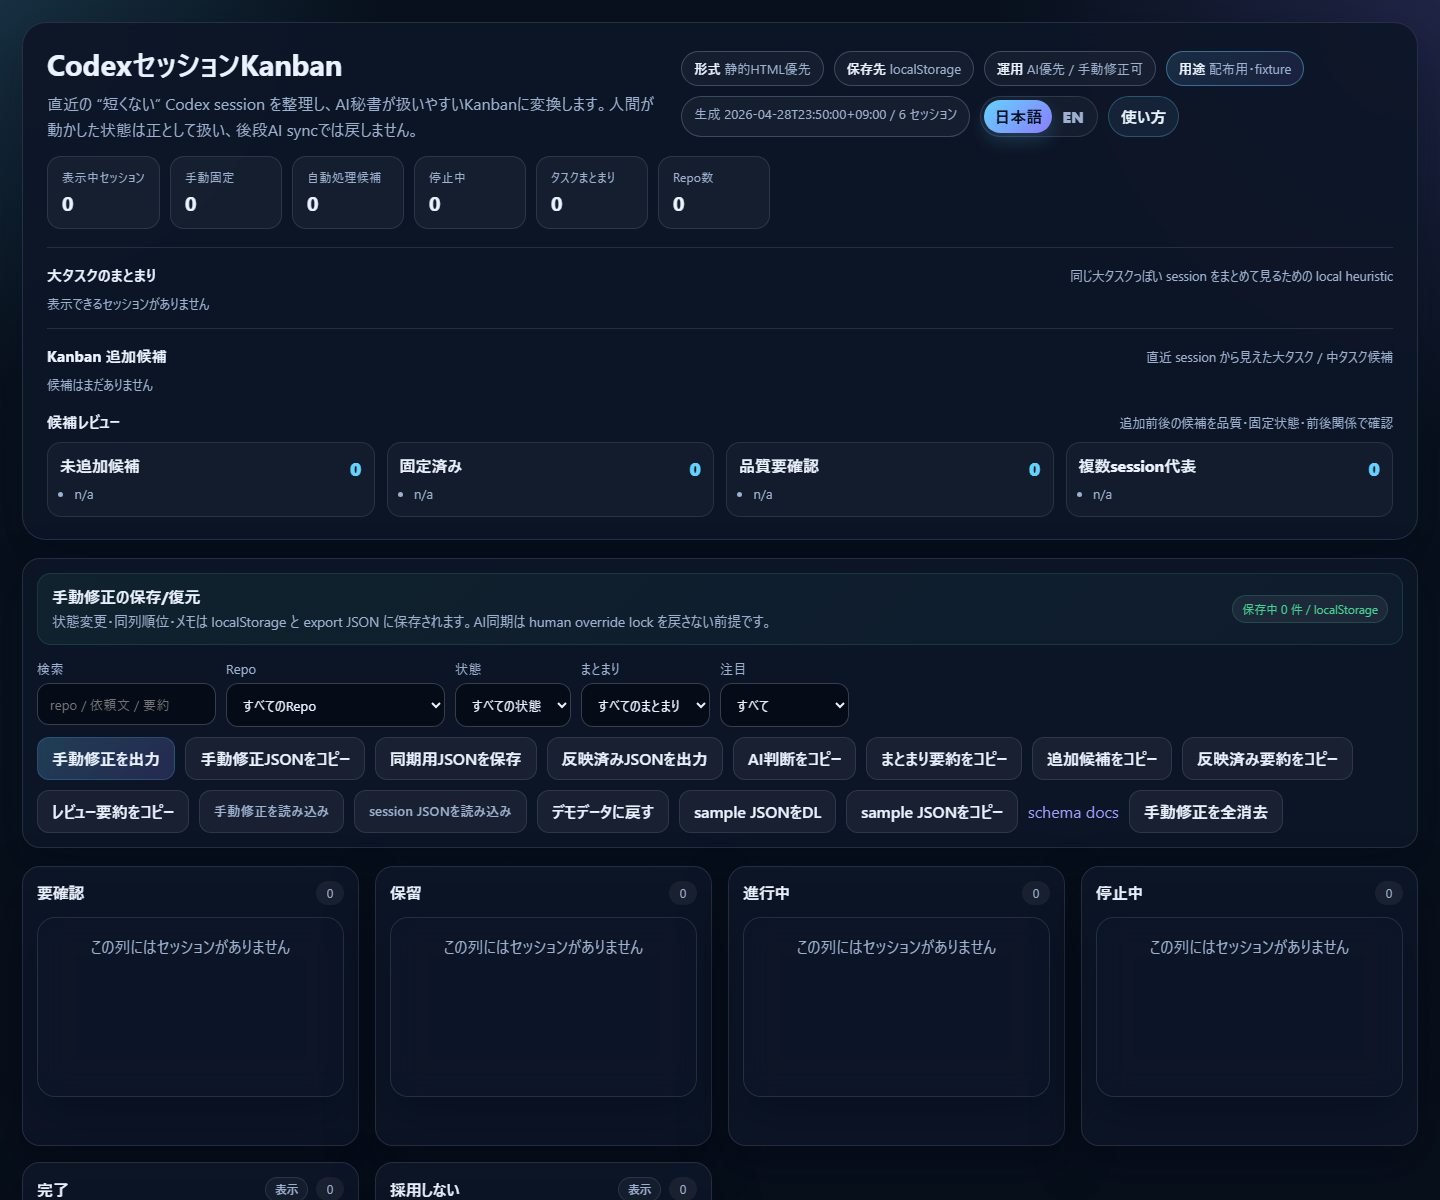
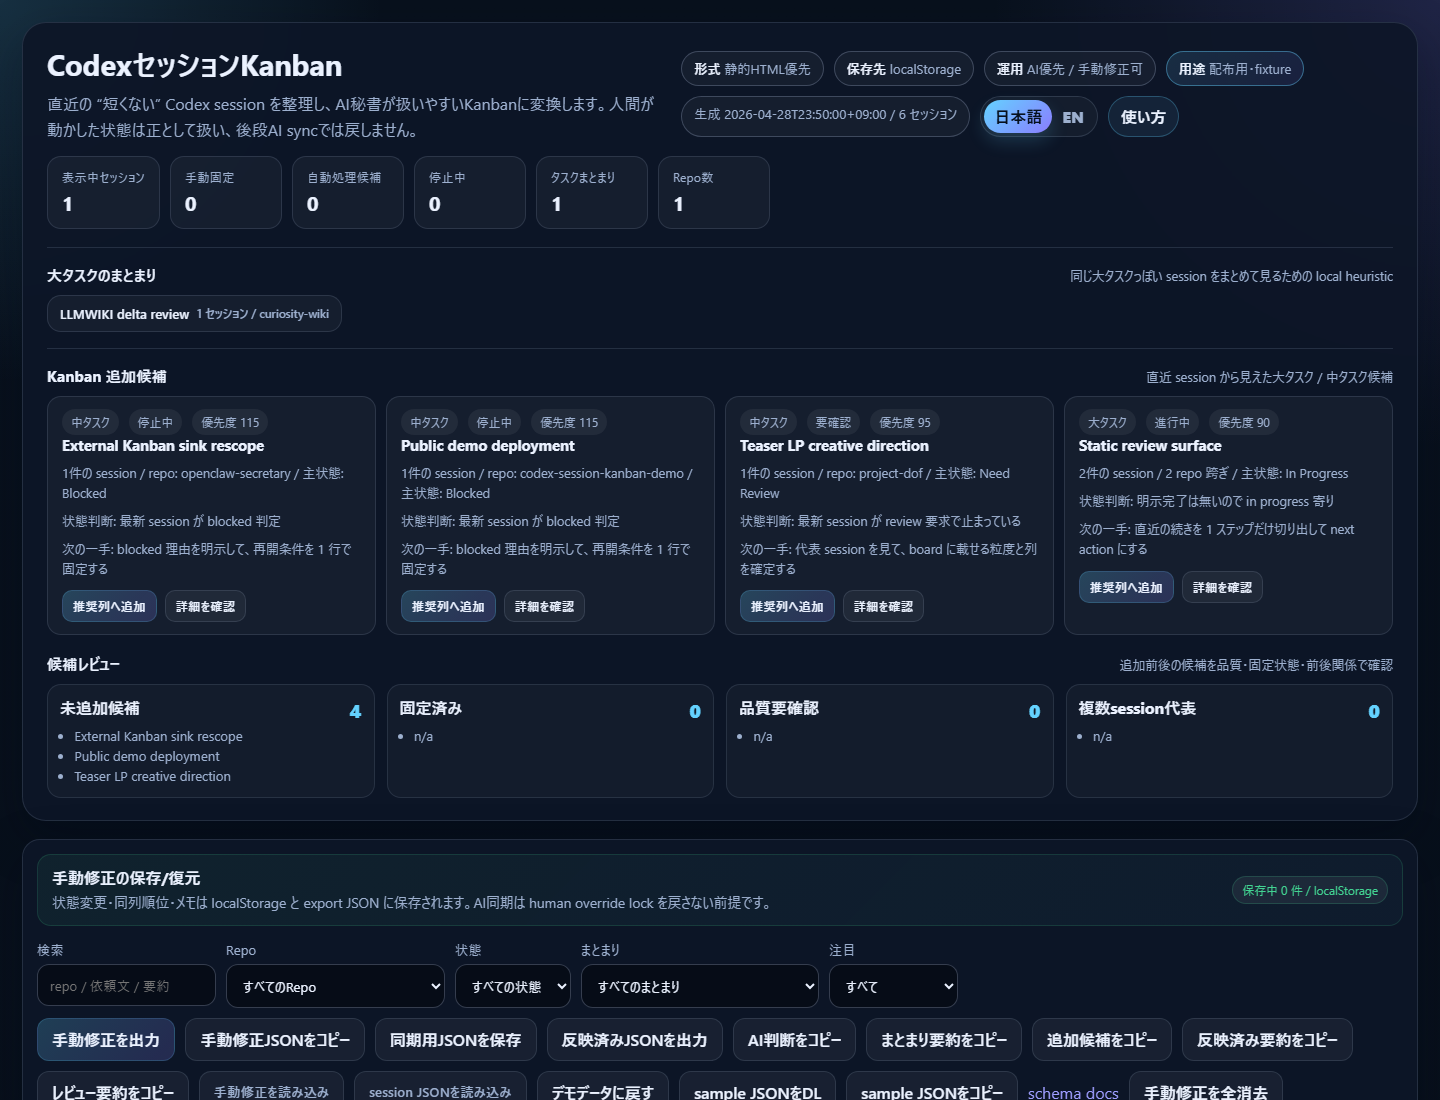
Refresh public screenshots

diff --git a/PRODUCT_TODO.md b/PRODUCT_TODO.md
@@ -358,6 +358,7 @@ Risk to avoid:
 
 Status:
 - Initial implementation added: README now includes generated screenshots for board overview and card detail/extraction evidence. Screenshots live under `docs/assets/` and should be regenerated after major UI changes.
+- Follow-up refreshed both screenshots from the current fixture UI after README/release polish.
 
 Goal:
 - Make the public demo value understandable visually without requiring the reader to run it first.
@@ -541,6 +542,7 @@ Risk to avoid:
 
 Status:
 - Initial implementation aligned `package.json` / `package-lock.json` with the public release stream and added `CHANGELOG.md` notes for v0.1.2.
+- Follow-up aligned metadata and changelog for v0.1.3 after screenshot refresh and Pages smoke recheck.
 
 Goal:
 - Avoid confusing users who inspect npm metadata after the GitHub release has advanced.

diff --git a/CHANGELOG.md b/CHANGELOG.md
@@ -4,6 +4,14 @@ All notable public-demo changes are tracked here.
 
 This project is still pre-1.0. Entries focus on public distribution, fixture safety, and the session-to-task review workflow.
 
+## 0.1.3 - 2026-04-29
+
+### Changed
+
+- Refreshed README screenshots from the current public fixture UI.
+- Rechecked the deployed Pages demo with browser smoke after the screenshot refresh.
+- Kept release metadata aligned with the public release stream.
+
 ## 0.1.2 - 2026-04-29
 
 ### Changed
